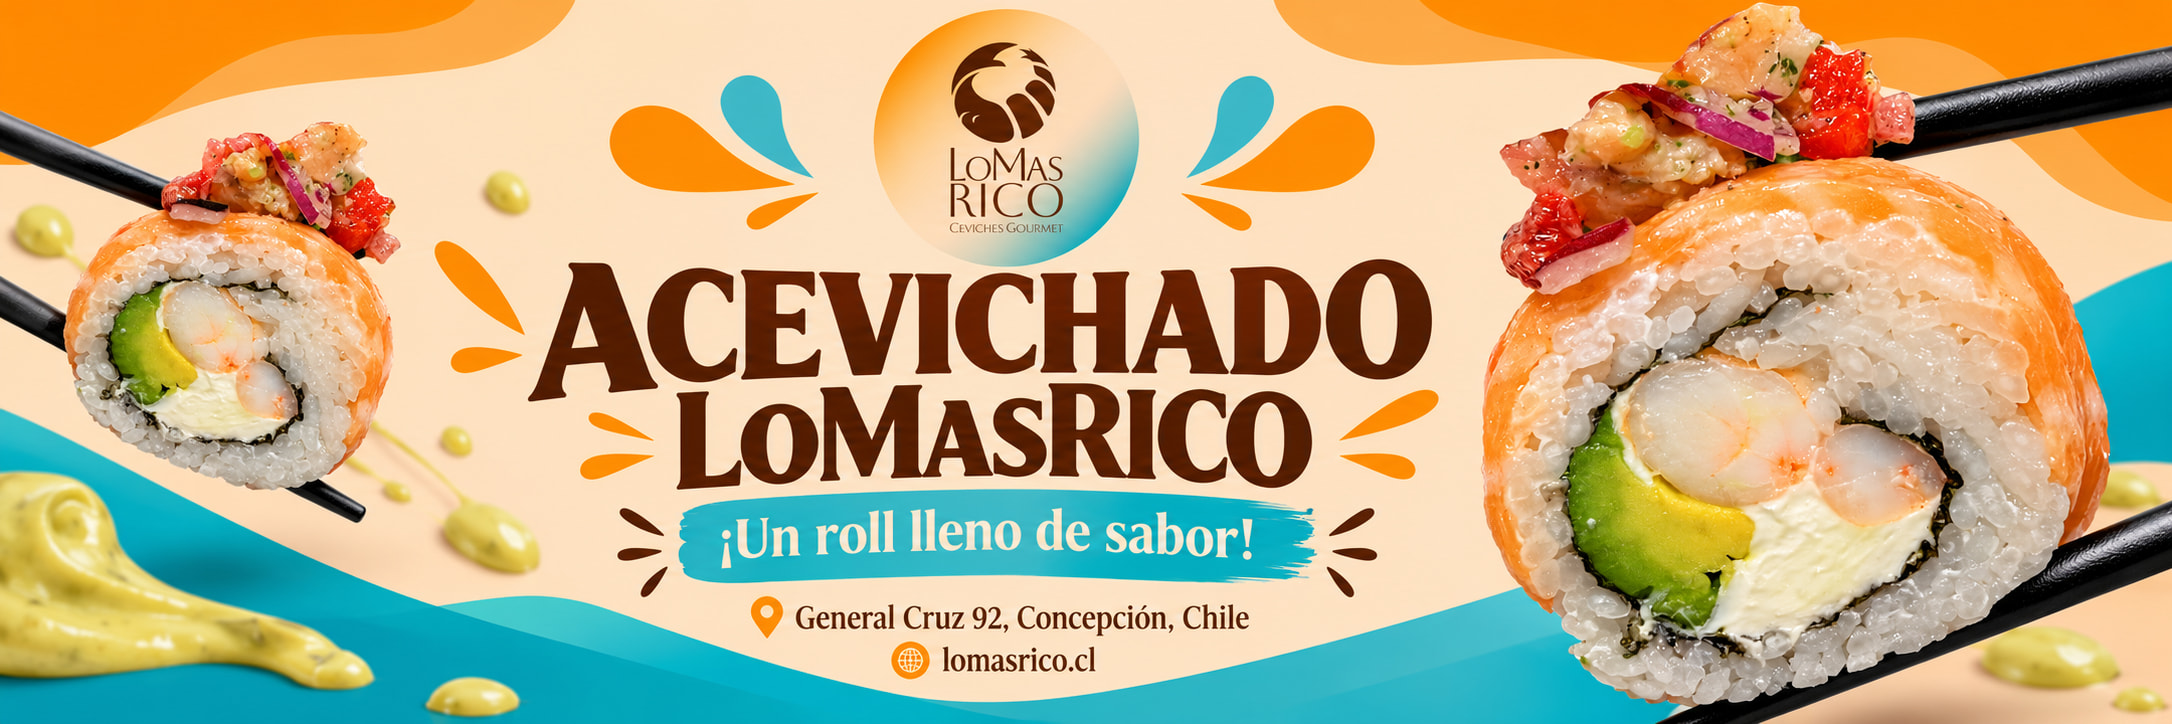
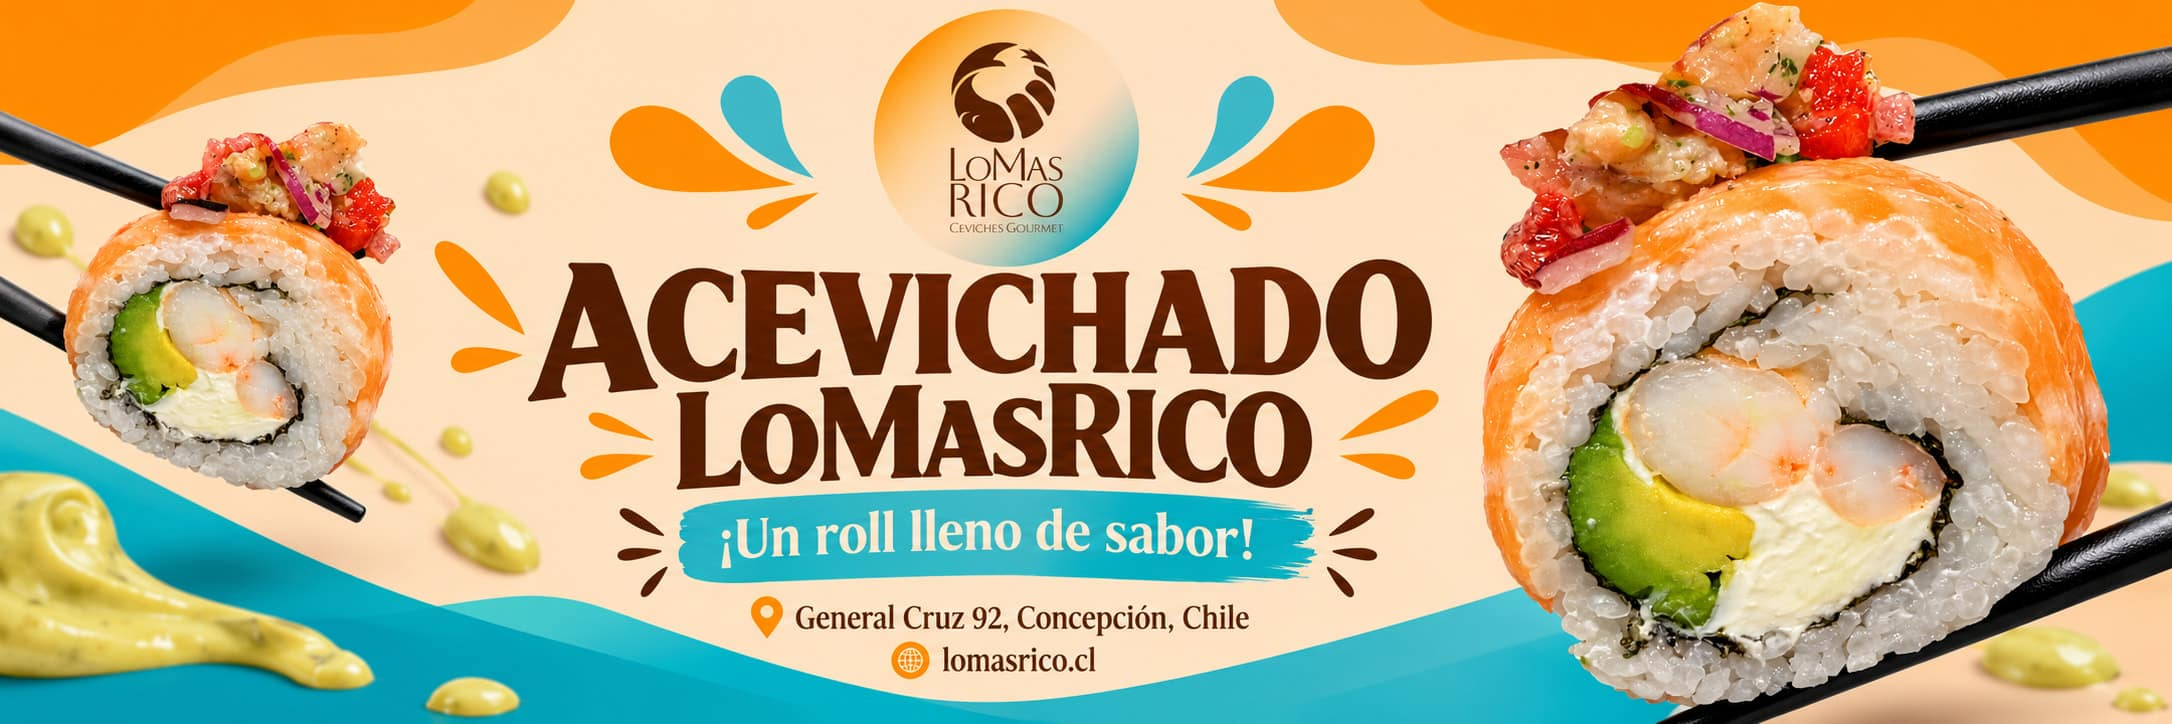
fix(web): bajar el peso de las fotos de la tienda

diff --git a/apps/web/src/components/BannerSection.tsx b/apps/web/src/components/BannerSection.tsx
@@ -2,8 +2,8 @@
 
 import { useEffect, useState } from 'react';
 
-/** v=4: originales en alta (no el preview 1024px de Cursor). */
-const V = '4';
+/** v=5: mismo tamaño en píxeles, JPEG más liviano. El navegador pide una sola por vez. */
+const V = '5';
 
 const SLIDES = [
   {
@@ -32,6 +32,8 @@ export function BannerSection() {
   const [index, setIndex] = useState(0);
   const [paused, setPaused] = useState(false);
 
+  const slide = SLIDES[index];
+
   useEffect(() => {
     if (paused || SLIDES.length < 2) return;
     const timer = window.setInterval(() => {
@@ -39,6 +41,13 @@ export function BannerSection() {
     }, INTERVAL_MS);
     return () => window.clearInterval(timer);
   }, [paused]);
+
+  useEffect(() => {
+    const next = SLIDES[(index + 1) % SLIDES.length];
+    const desktop = window.matchMedia('(min-width: 768px)').matches;
+    const img = new Image();
+    img.src = desktop ? next.desktop : next.mobile;
+  }, [index]);
 
   return (
     <div
@@ -48,40 +57,20 @@ export function BannerSection() {
       onFocusCapture={() => setPaused(true)}
       onBlurCapture={() => setPaused(false)}
     >
-      {/* Escritorio — ratio ~3:1 como los PNG originales */}
-      <div className="hidden md:block w-full aspect-[3/1] overflow-hidden bg-[#fff6ea] relative">
-        {SLIDES.map((slide, i) => (
+      {/* Una sola foto: la del tamaño de la pantalla y la que está en vista. */}
+      <div className="w-full aspect-[3/2] md:aspect-[3/1] overflow-hidden bg-[#fff6ea] relative">
+        <picture key={slide.id}>
+          <source media="(min-width: 768px)" srcSet={slide.desktop} />
           <img
-            key={`d-${slide.id}`}
-            src={slide.desktop}
-            alt={slide.alt}
-            width={2172}
-            height={724}
-            decoding={i === 0 ? 'sync' : 'async'}
-            fetchPriority={i === 0 ? 'high' : 'low'}
-            className={`absolute inset-0 w-full h-full object-cover object-center transition-opacity duration-700 ${
-              i === index ? 'opacity-100' : 'opacity-0 pointer-events-none'
-            }`}
-          />
-        ))}
-      </div>
-
-      {/* Móvil — ratio 3:2 */}
-      <div className="block md:hidden w-full aspect-[3/2] overflow-hidden bg-[#fff6ea] relative">
-        {SLIDES.map((slide, i) => (
-          <img
-            key={`m-${slide.id}`}
             src={slide.mobile}
             alt={slide.alt}
             width={1536}
             height={1024}
-            decoding={i === 0 ? 'sync' : 'async'}
-            fetchPriority={i === 0 ? 'high' : 'low'}
-            className={`absolute inset-0 w-full h-full object-cover object-center transition-opacity duration-700 ${
-              i === index ? 'opacity-100' : 'opacity-0 pointer-events-none'
-            }`}
+            decoding="async"
+            fetchPriority="high"
+            className="absolute inset-0 w-full h-full object-cover object-center animate-in fade-in duration-700"
           />
-        ))}
+        </picture>
       </div>
 
       <div className="absolute bottom-3 left-0 right-0 flex justify-center gap-2 z-10">

diff --git a/apps/web/src/components/modals/CheckoutModal.tsx b/apps/web/src/components/modals/CheckoutModal.tsx
@@ -9,7 +9,7 @@ import { useTableSession } from '../../context/TableSessionContext';
 import { CheckCircle2, MapPin, Plus, Loader2, ShoppingBag, X, Trash2, ArrowRight, Store, Truck, LogIn, ChevronLeft, ChevronRight as ChevronRightIcon, Instagram, Clock } from 'lucide-react';
 import AddressAutocomplete from '../common/AddressAutocomplete';
 import { initMercadoPago, Wallet } from '@mercadopago/sdk-react';
-import { cleanModifierLabel, LOCATION } from '@lomasrico/shared-types';
+import { cleanModifierLabel, CLOUDINARY_THUMB, cloudinaryTransform, LOCATION } from '@lomasrico/shared-types';
 import { quietError } from '../../lib/quietLog';
 
 const INSTAGRAM_URL = 'https://www.instagram.com/cevichelomasrico/';
@@ -397,7 +397,7 @@ export default function CheckoutModal({ isOpen, onClose, total }: Props) {
                                 <div key={item.tempId} className="flex gap-4 p-4 rounded-2xl bg-slate-50 border border-slate-100 items-start group hover:border-slate-200 transition-colors">
                                     <div className="w-16 h-16 rounded-xl bg-white flex items-center justify-center shadow-sm overflow-hidden shrink-0 relative">
                                         <img
-                                            src={item.imageUrl || `/assets/${item.name}.jpg`}
+                                            src={cloudinaryTransform(item.imageUrl || `/assets/${item.name}.jpg`, CLOUDINARY_THUMB)}
                                             onError={(e) => {
                                                 const target = e.currentTarget;
                                                 if (!target.src.includes('Logo')) {

diff --git a/apps/web/src/components/catalog/ProductGrid.tsx b/apps/web/src/components/catalog/ProductGrid.tsx
@@ -5,7 +5,7 @@ import { ProductCard } from './ProductCard';
 import { CevicheBuilderModal } from '../modals/CevicheBuilderModal';
 import { Product } from '../../types';
 import { useCart } from '../../context/CartContext';
-import { PROTEINS, VEGGIES, categoryRole, MENU_ROLE_LABEL, webSectionKey, groupProductsByWebSection, filterModifiersForChannel } from '@lomasrico/shared-types';
+import { PROTEINS, VEGGIES, categoryRole, MENU_ROLE_LABEL, webSectionKey, groupProductsByWebSection, filterModifiersForChannel, CLOUDINARY_CARD, cloudinaryTransform } from '@lomasrico/shared-types';
 import { useTableSession } from '../../context/TableSessionContext';
 import { API_URL } from '../../services/api';
 
@@ -17,7 +17,7 @@ function photosForIds(products: Product[], ids: Set<string>) {
     const urls: string[] = [];
     for (const product of products) {
         if (!ids.has(product.id)) continue;
-        const url = product.imageUrl;
+        const url = product.imageUrl ? cloudinaryTransform(product.imageUrl, CLOUDINARY_CARD) : '';
         if (url && url.length > 4 && !urls.includes(url)) urls.push(url);
         if (urls.length >= 8) break;
     }
@@ -51,6 +51,8 @@ function CategoryMosaic({ photos }: { photos: string[] }) {
             <img
                 src={src}
                 alt=""
+                loading="lazy"
+                decoding="async"
                 className="absolute inset-0 h-full w-full object-cover scale-100 transition-transform duration-500 ease-out group-hover:scale-110"
                 onError={(e) => {
                     const img = e.currentTarget;

diff --git a/apps/web/src/components/catalog/ProductCard.tsx b/apps/web/src/components/catalog/ProductCard.tsx
@@ -2,6 +2,7 @@
 
 import { useEffect, useRef, useState } from 'react';
 import { Product } from '../../types';
+import { CLOUDINARY_CARD, cloudinaryTransform } from '@lomasrico/shared-types';
 import { Plus, AlertTriangle } from 'lucide-react';
 
 interface ProductCardProps {
@@ -11,7 +12,7 @@ interface ProductCardProps {
 
 export const ProductCard = ({ product, onAdd }: ProductCardProps) => {
     // We use the imageUrl from the catalog which now points to the real filename
-    const displayImage = product.imageUrl || `/assets/Logo Restaurante.png`;
+    const displayImage = cloudinaryTransform(product.imageUrl || '/assets/Logo Restaurante.png', CLOUDINARY_CARD);
     const isOutOfStock = product.available === false;
     const isLowStock = product.available !== false && product.maxQuantity != null && product.maxQuantity > 0 && product.maxQuantity <= 5;
 
@@ -64,6 +65,8 @@ export const ProductCard = ({ product, onAdd }: ProductCardProps) => {
                 <img
                     src={displayImage}
                     alt={product.name}
+                    loading="lazy"
+                    decoding="async"
                     className={`w-full h-full object-cover transition-transform duration-1000 ${isOutOfStock ? '' : 'group-hover:scale-110'} ${hasVideo ? 'group-hover:opacity-0' : ''}`}
                     onError={(e) => {
                         const target = e.target as HTMLImageElement;

diff --git a/apps/web/src/components/common/FloatingDishes.tsx b/apps/web/src/components/common/FloatingDishes.tsx
@@ -1,7 +1,7 @@
 'use client';
 
 import { useEffect, useRef, useState, type RefObject } from 'react';
-import { isShowcasePlate } from '@lomasrico/shared-types';
+import { CLOUDINARY_CARD, cloudinaryTransform, isShowcasePlate } from '@lomasrico/shared-types';
 import { API_URL } from '../../services/api';
 
 type Ball = {
@@ -164,7 +164,7 @@ export default function FloatingDishes({ cardRef }: { cardRef?: RefObject<HTMLDi
                     isShowcasePlate(p.category, p.name) && typeof p.imageUrl === 'string' && p.imageUrl.length > 4,
                 );
                 const excluded = all.filter((p: { category?: string; name?: string }) => !isShowcasePlate(p.category, p.name));
-                const urls = [...new Set(plates.map((p: { imageUrl: string }) => p.imageUrl))];
+                const urls = [...new Set(plates.map((p: { imageUrl: string }) => cloudinaryTransform(p.imageUrl, CLOUDINARY_CARD)))];
                 fromApi = urls.length;
                 if (urls.length >= 4) photosRef.current = urls;
             } catch {

diff --git a/packages/shared-types/src/media.ts b/packages/shared-types/src/media.ts
@@ -2,6 +2,8 @@
 export const CLOUDINARY_IMAGE = 'f_auto,q_auto,c_limit,w_1600';
 export const CLOUDINARY_VIDEO = 'q_auto,c_limit,w_720';
 export const CLOUDINARY_THUMB = 'f_auto,q_auto,c_fill,w_300,h_300';
+/** Tarjetas y mosaico de la tienda. Más chico que la foto guardada (1600). */
+export const CLOUDINARY_CARD = 'f_auto,q_auto,c_limit,w_720';
 
 export function isCloudinaryUrl(url?: string | null): boolean {
     return !!url && /^https:\/\/res\.cloudinary\.com\/[^/]+\/(image|video)\/upload\//.test(url);
